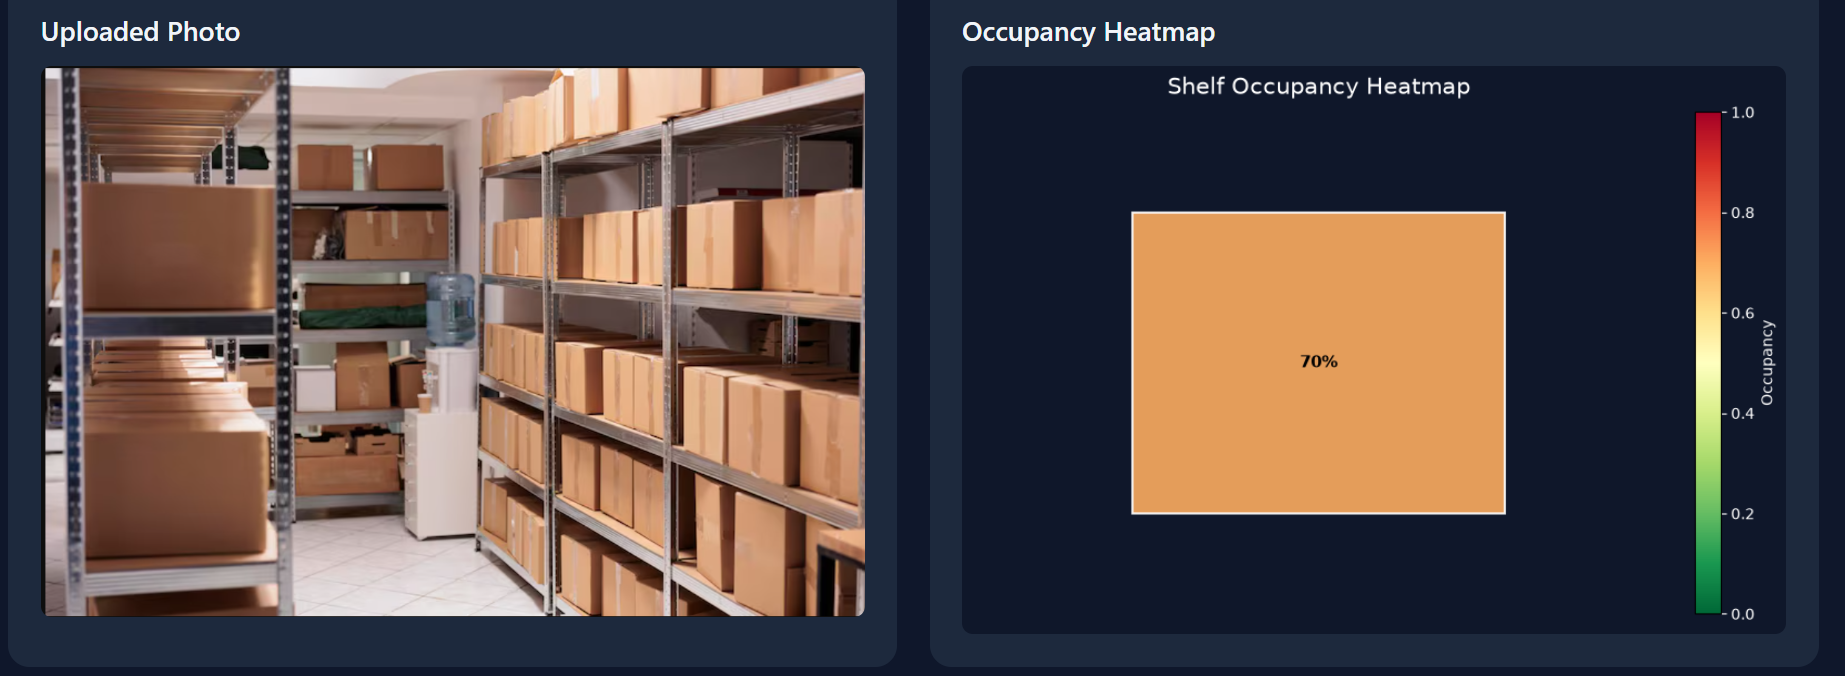
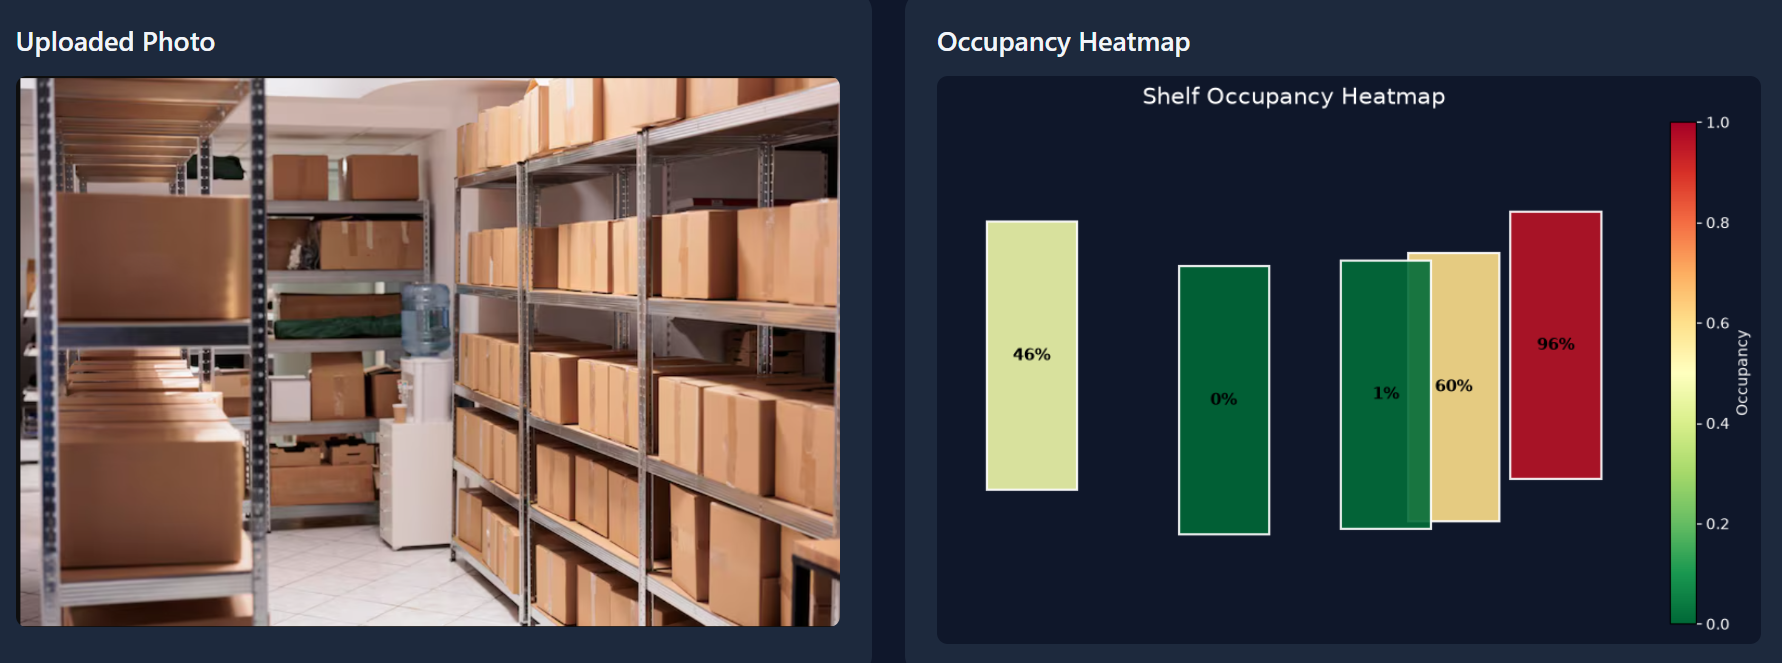
Update readme : Feature - Recommendations

diff --git a/README.md b/README.md
@@ -103,7 +103,9 @@ To convert pixels into metres, ShelfSense uses either the floor size you typed i
 
 ### Phase 2 — Scoring the warehouse
 
-Storage Utilization Rate is how much of the total shelf volume actually holds stock. Six sub-scores are combined into one weighted health score with a label (Poor, Fair, Good, Excellent), and a set of rules turns the numbers into plain recommendations.
+Storage Utilization Rate is how much of the total shelf volume actually holds stock. Six sub-scores are combined into one weighted health score with a label (Poor, Fair, Good, Excellent).
+
+Recommendations come from independent rules, each of which either fires or stays quiet. Every one cites the evidence that triggered it — naming specific bays and their occupancy — and estimates the health-score points it would recover, so the list is ranked by what's actually worth doing first. One rule detects stock stacked on the floor rather than on racking, which blocks aisles and means existing capacity is going unused.
 
 When something can't be calculated — for example, no floor size was entered — the app says what it needs instead of inventing a number.
 
